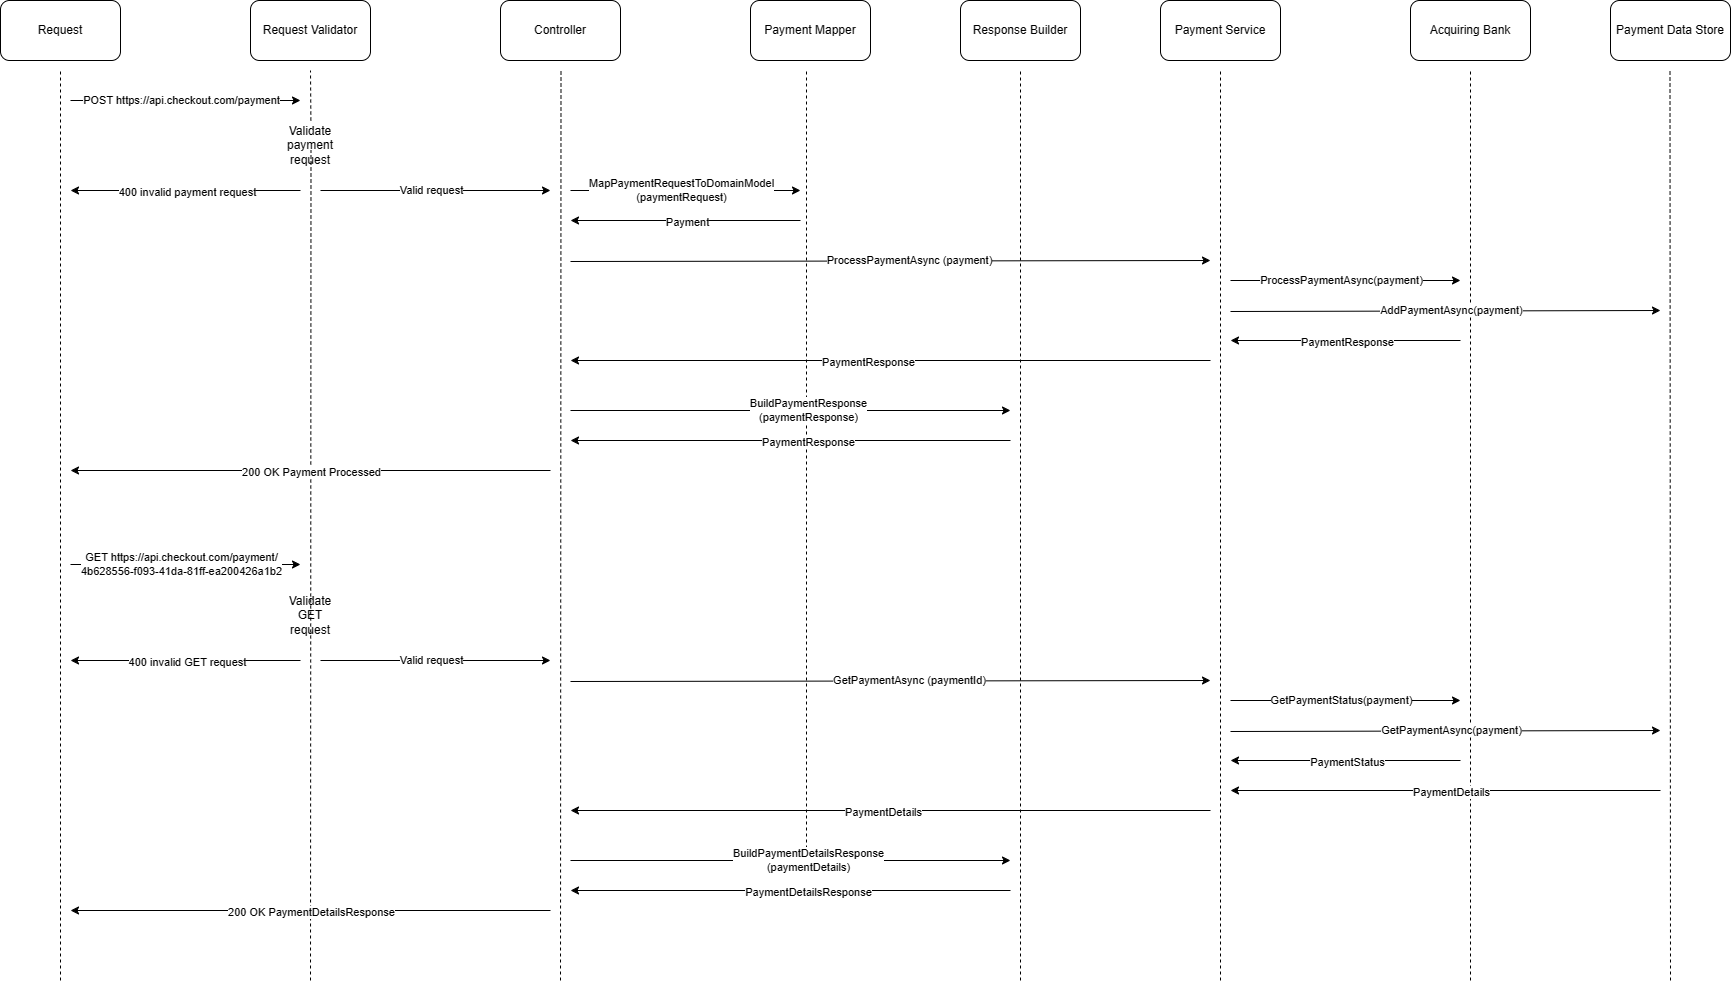
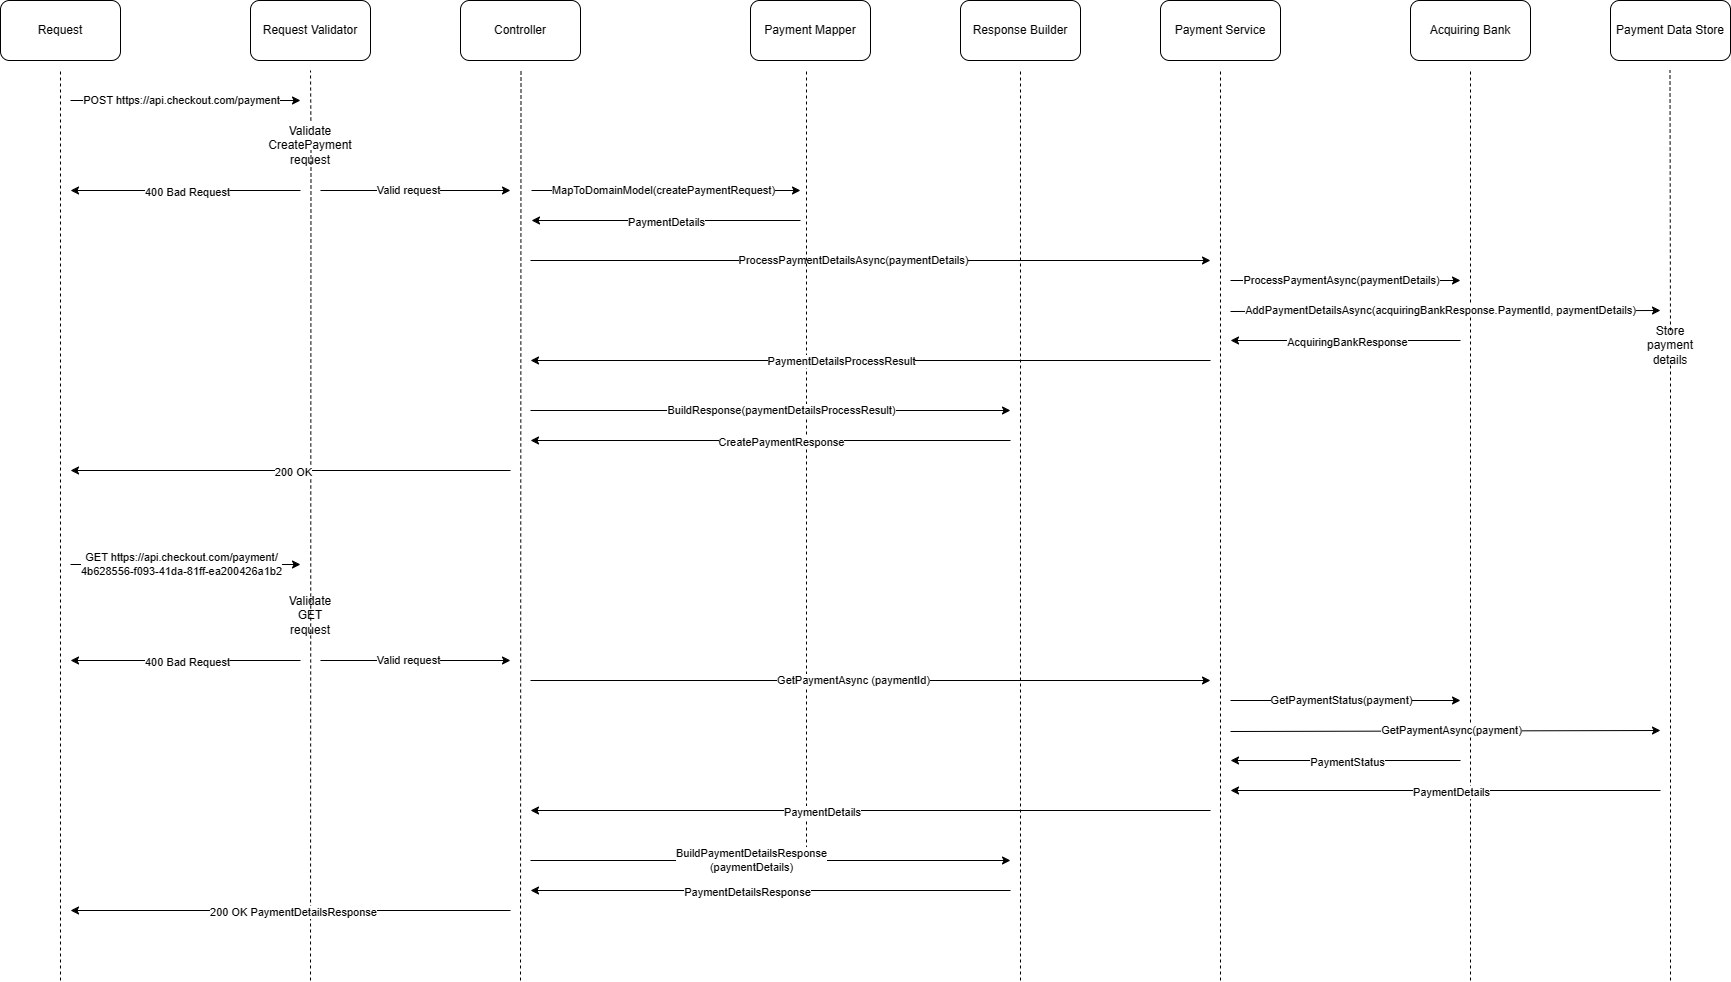
update documentation and request pipeline diagram

diff --git a/README.md b/README.md
@@ -1,11 +1,11 @@
-# Payment Gateway API #
+# Payment Gateway API
 
 ## Purpose
 The Payment Gateway API allows a merchant to offer a way for their shoppers to pay for their product. The API also allows retrieving details of previously made payments, which will help the merchant with their reconciliation and reporting needs.
 
 ## Code Architecture
 We have a .NET Core API project `Checkout.Payment.Gateway.Api` which follows the following code-level hierarchy and flow.
-- **Validator**: Validates request parameters (mandatory fields)
+- **RequestValidator**: Validates request parameters (mandatory fields)
     - **Controller**: Performs request execution
         - **PaymentService**: Performs payment logic for storing, quering and forwarging payment request to acquiring bank
             - **AcquiringBank**: Performs the client call to acquiring bank and builds retrieved response to domain model 
@@ -35,14 +35,14 @@ REQUEST BODY (required)
 }
 ```
 ### Request properties and validation requirement
-PaymentRequest
+CreatePaymentRequest
 |           Property |        Type |                   Validation Requirement |
 |-------------------:|------------:|------------------------------------------|
 |           shopperId|         Guid| Required
 |          merchantId|         Guid| Required
 |            currency|       string| Required, length of 3 characters
 |              amount|      decimal| Required
-|  shopperCardDetails|       object| Required
+|         cardDetails|       object| Required
 
 CardDetails
 |           Property |        Type |                   Validation Requirement |
@@ -57,11 +57,9 @@ CardDetails
 ## 200 OK - RESPONSE BODY
 ```
 {
-    "title": "Payment processed",
-    "status": 200,
     "payment": {
         Id: "6e8e4b2e-fb16-4d22-92dd-ca6d7c903e18",
-        statusCode: 001
+        statusCode: "001"
     }
 }
 ```
@@ -93,12 +91,14 @@ CardDetails
 ## 500 Internal Server Error - RESPONSE BODY
 ```
 {
-	"title": "Service unavailable"
-	"status": 500
+    "type": "https://tools.ietf.org/html/rfc7231#section-6.6.1",
+    "title": "An error occurred while processing your request.",
+    "status": 500,
+    "traceId": "00-da2ad4e61bf497a7e14707366f27a184-af0a772788002d0c-00"
 }
 ```
 
-# Get Payment #
+# Get Payment Details
 GET https://api.checkout.com/payment/4ac61dd6-4a9f-4f7d-8385-0263ad2d0123
 
 ## 200 OK - RESPONSE BODY
@@ -110,7 +110,6 @@ GET https://api.checkout.com/payment/4ac61dd6-4a9f-4f7d-8385-0263ad2d0123
     },
     "shopperId": "8cb389ba-64dc-4f77-9250-b0ea046d9273",
     "merchantId": "52d59ba9-0fb2-4ca5-82a1-efa3f17fe12c",
-    "dateCreated": "2023-05-11T10:36:26.988Z",
     "currency": "gbp",
     "amount": 156.60,
     "cardDetails": {
@@ -132,7 +131,24 @@ GET https://api.checkout.com/payment/4ac61dd6-4a9f-4f7d-8385-0263ad2d0123
 ## 500 Internal Server Error - RESPONSE BODY
 ```
 {
-	"title": "Service unavailable"
-	"status": 500
+    "type": "https://tools.ietf.org/html/rfc7231#section-6.6.1",
+    "title": "An error occurred while processing your request.",
+    "status": 500,
+    "traceId": "00-da2ad4e61bf497a7e14707366f27a184-af0a772788002d0c-00"
 }
 ```
+
+# Run Payment Gateway API locally
+In order to test the application request pipeline tunning the application locally, we can use an in-memory data store that will simulate the addition of a payment record. Also, we can use fake acquiring bank implementation to simulate the payment process.
+
+Using the IAcquiringBank interface, we can implement the integration part of the application that will contain the client-related code. The implementation class can then be swapped with the temporary fake when going to the production environment.
+
+Make sure that the application uses InMemoryDataStore and FakeAcquiringBank.
+
+In Program.cs
+```
+builder.Services.AddSingleton<IPaymentRepository, InMemoryDataStore>();
+builder.Services.AddSingleton<IAcquiringBank, FakeAcquiringBank>();
+```
+
+Execute the POST request using Postman and create the payment specification above.
